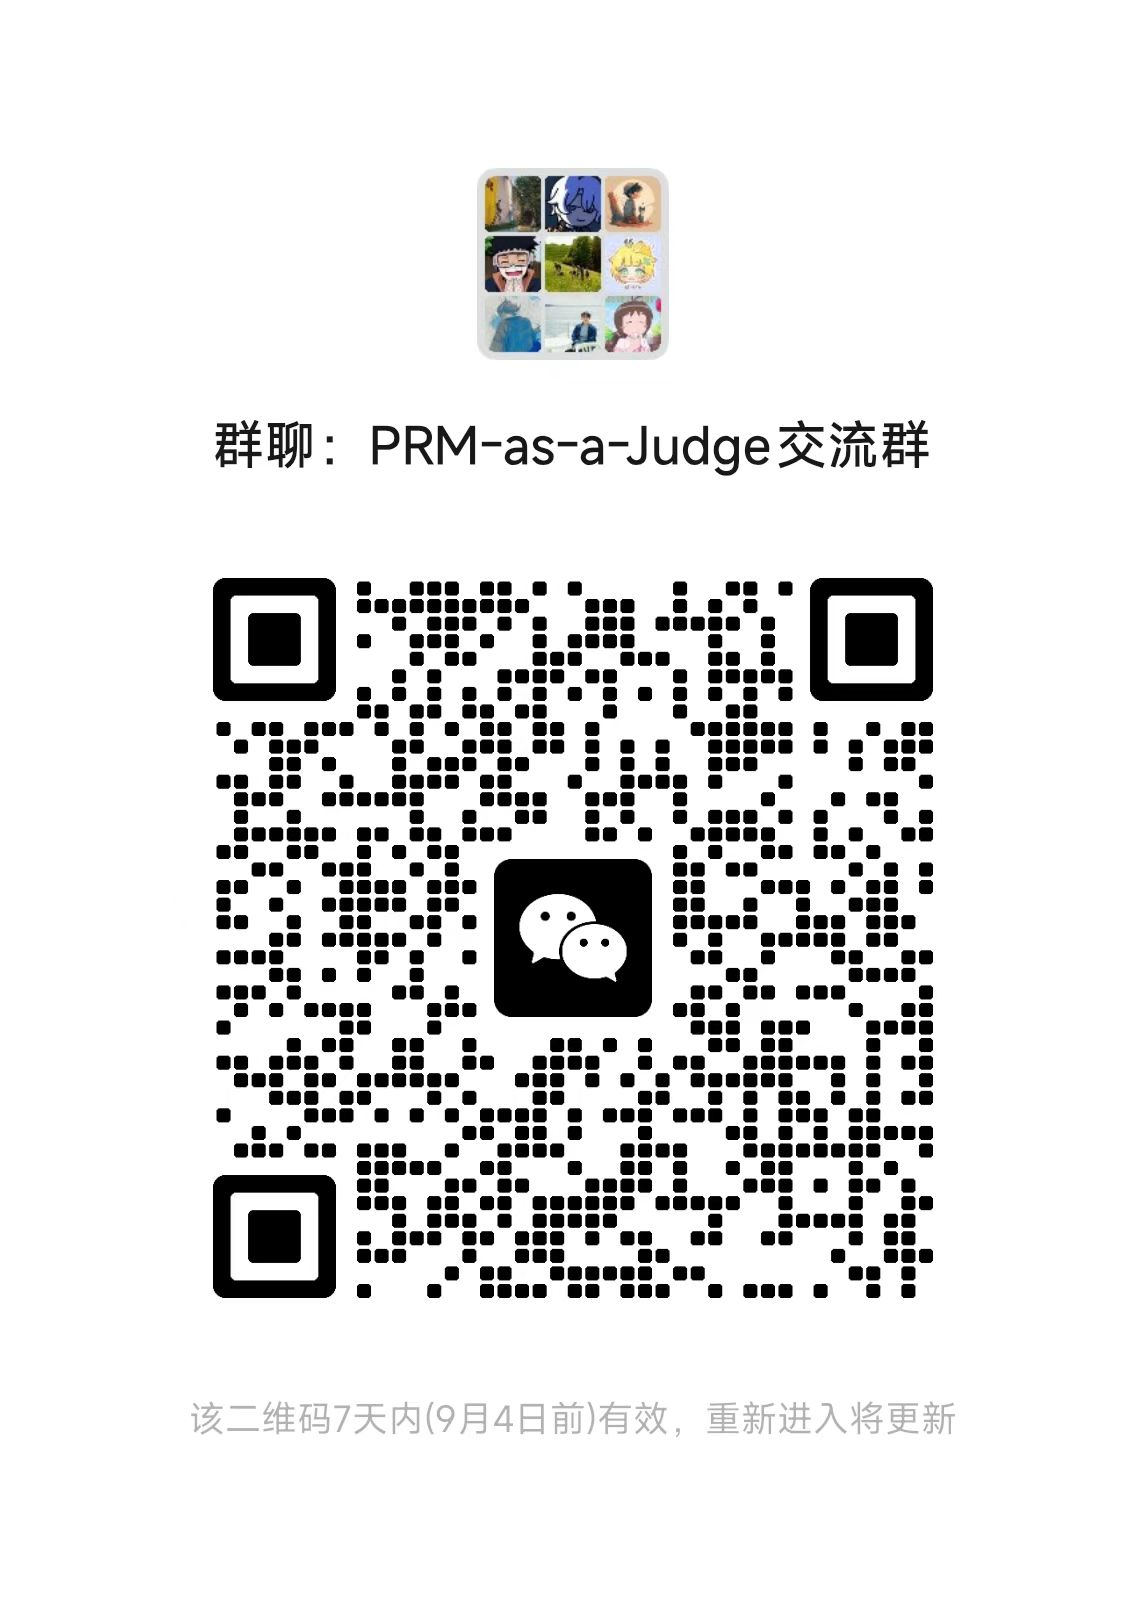
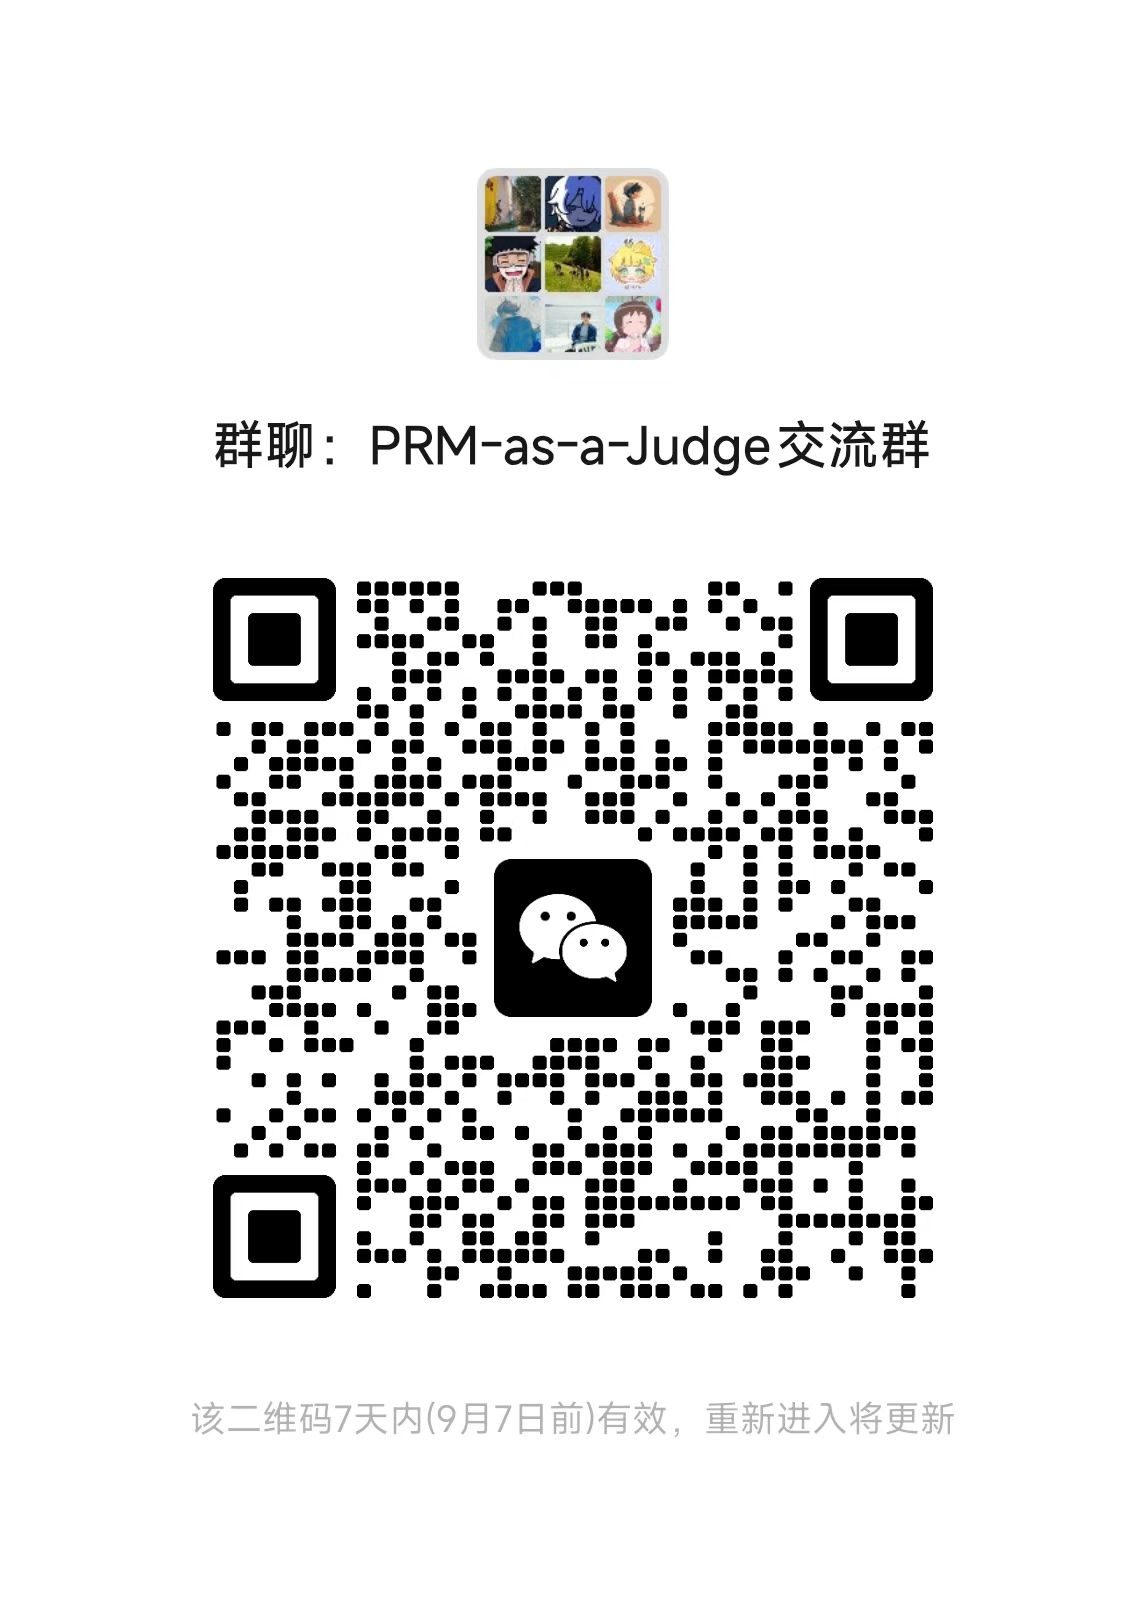
Release RoboPulse++ benchmark and update QR code

diff --git a/README.md b/README.md
@@ -19,7 +19,7 @@
   &nbsp;
   <a href="https://prm-as-a-judge.github.io/leaderboard.html"><img src="https://img.shields.io/badge/🏆%20Leaderboard-RoboChallenge%20Table30-orange" alt="Leaderboard"></a>
   &nbsp;
-  <img src="https://img.shields.io/badge/🤗%20Benchmark-RoboPulse%2B%2B%20%28Coming%20Soon%29-gold" alt="RoboPulse++ Benchmark Coming Soon">
+  <a href="https://huggingface.co/datasets/lyy0715/RoboPulsePlusPlus"><img src="https://img.shields.io/badge/🤗%20Benchmark-RoboPulse%2B%2B-gold" alt="RoboPulse++ Benchmark"></a>
   &nbsp;
   <a href="https://huggingface.co/tanhuajie2001/Robo-Dopamine-GRM-2.0-8B-Preview"><img src="https://img.shields.io/badge/🤗%20PRM-Robo--Dopamine%208B%20Preview-yellow" alt="PRM"></a>
   &nbsp;
@@ -39,7 +39,8 @@
 >
 > We warmly welcome researchers and benchmark teams to apply PRM-as-a-Judge to their own embodied task evaluations. We are happy to provide hands-on guidance on rollout preparation, metric interpretation, and evaluation integration. Please contact us through the WeChat group below or by email at `liuyuyang2025@ia.ac.cn`.
 
-- **`2026-08-14`**: 📝 **PRM-as-a-Judge 1.5 technical report released:** Our new report, [PRM-as-a-Judge 1.5: A Toolkit for Robot Process Assessment](https://arxiv.org/abs/2608.14284), presents expanded metrics, representative case studies, **RoboPulse++**, and a reproducible robot process assessment suite.
+- **`2026-08-31`**: 🤗 **RoboPulse++ benchmark released:** [RoboPulse++](https://huggingface.co/datasets/lyy0715/RoboPulsePlusPlus) is now open on Hugging Face for trajectory-level progress-judge evaluation.
+- **`2026-08-14`**: 📝 **PRM-as-a-Judge 1.5 technical report released:** Our new report, [PRM-as-a-Judge 1.5: A Toolkit for Robot Process Assessment](https://arxiv.org/abs/2608.14284), presents expanded metrics, representative case studies, [RoboPulse++](https://huggingface.co/datasets/lyy0715/RoboPulsePlusPlus), and a reproducible robot process assessment suite.
 - **`2026-07-19`**: 📖 **Official User Guide released for easier onboarding:** Published a step-by-step [Quick Start and Advanced Guide](https://prm-as-a-judge.github.io/doc.html) to help users run the complete workflow from installation and demo evaluation to visualization and advanced configuration.
 - **`2026-07-13`**: 📊 **Major visualization upgrade:** Released an interactive evaluation report system with model- and task-level dashboards, failure diagnostics, and synchronized rollout video–progress inspection through `prm-judge visualize`.
 - **`2026-07-10`**: 📏 **Major metric-system upgrade:** Introduced an expanded trajectory-level metric framework for evaluating progress quality, stagnation, regression, recovery, and failure characteristics beyond conventional success rates.
@@ -220,7 +221,7 @@ Configure additional views, evaluation modes, GPUs, curve processing, metrics, o
 - [x] Release RoboChallenge Table30 OPD results on the [online leaderboard](https://prm-as-a-judge.github.io/leaderboard.html).
 - [x] Release the [evaluator inference toolkit](#-quick-start) for offline trajectory scoring.
 - [x] Release standardized [RoboPulse](https://huggingface.co/datasets/yuheng2000/RoboPulse) access and evaluation protocol.
-- [x] Release the PRM-as-a-Judge 1.5 technical report, featuring expanded metrics, representative case studies, and our new trajectory-level benchmark, **RoboPulse++**. ***(Coming soon; expected in about 2 weeks.)***
+- [x] Release the PRM-as-a-Judge 1.5 technical report, featuring expanded metrics, representative case studies, and our new trajectory-level benchmark, [RoboPulse++](https://huggingface.co/datasets/lyy0715/RoboPulsePlusPlus).
 - [ ] Release PRM-as-a-Judge 2.0 with a new Judge Model that is **faster, stronger, more practical**, and requires no additional compute resources. ***(Coming soon; expected in about 2–3 months.)***
 
 ## ❓ FAQ
